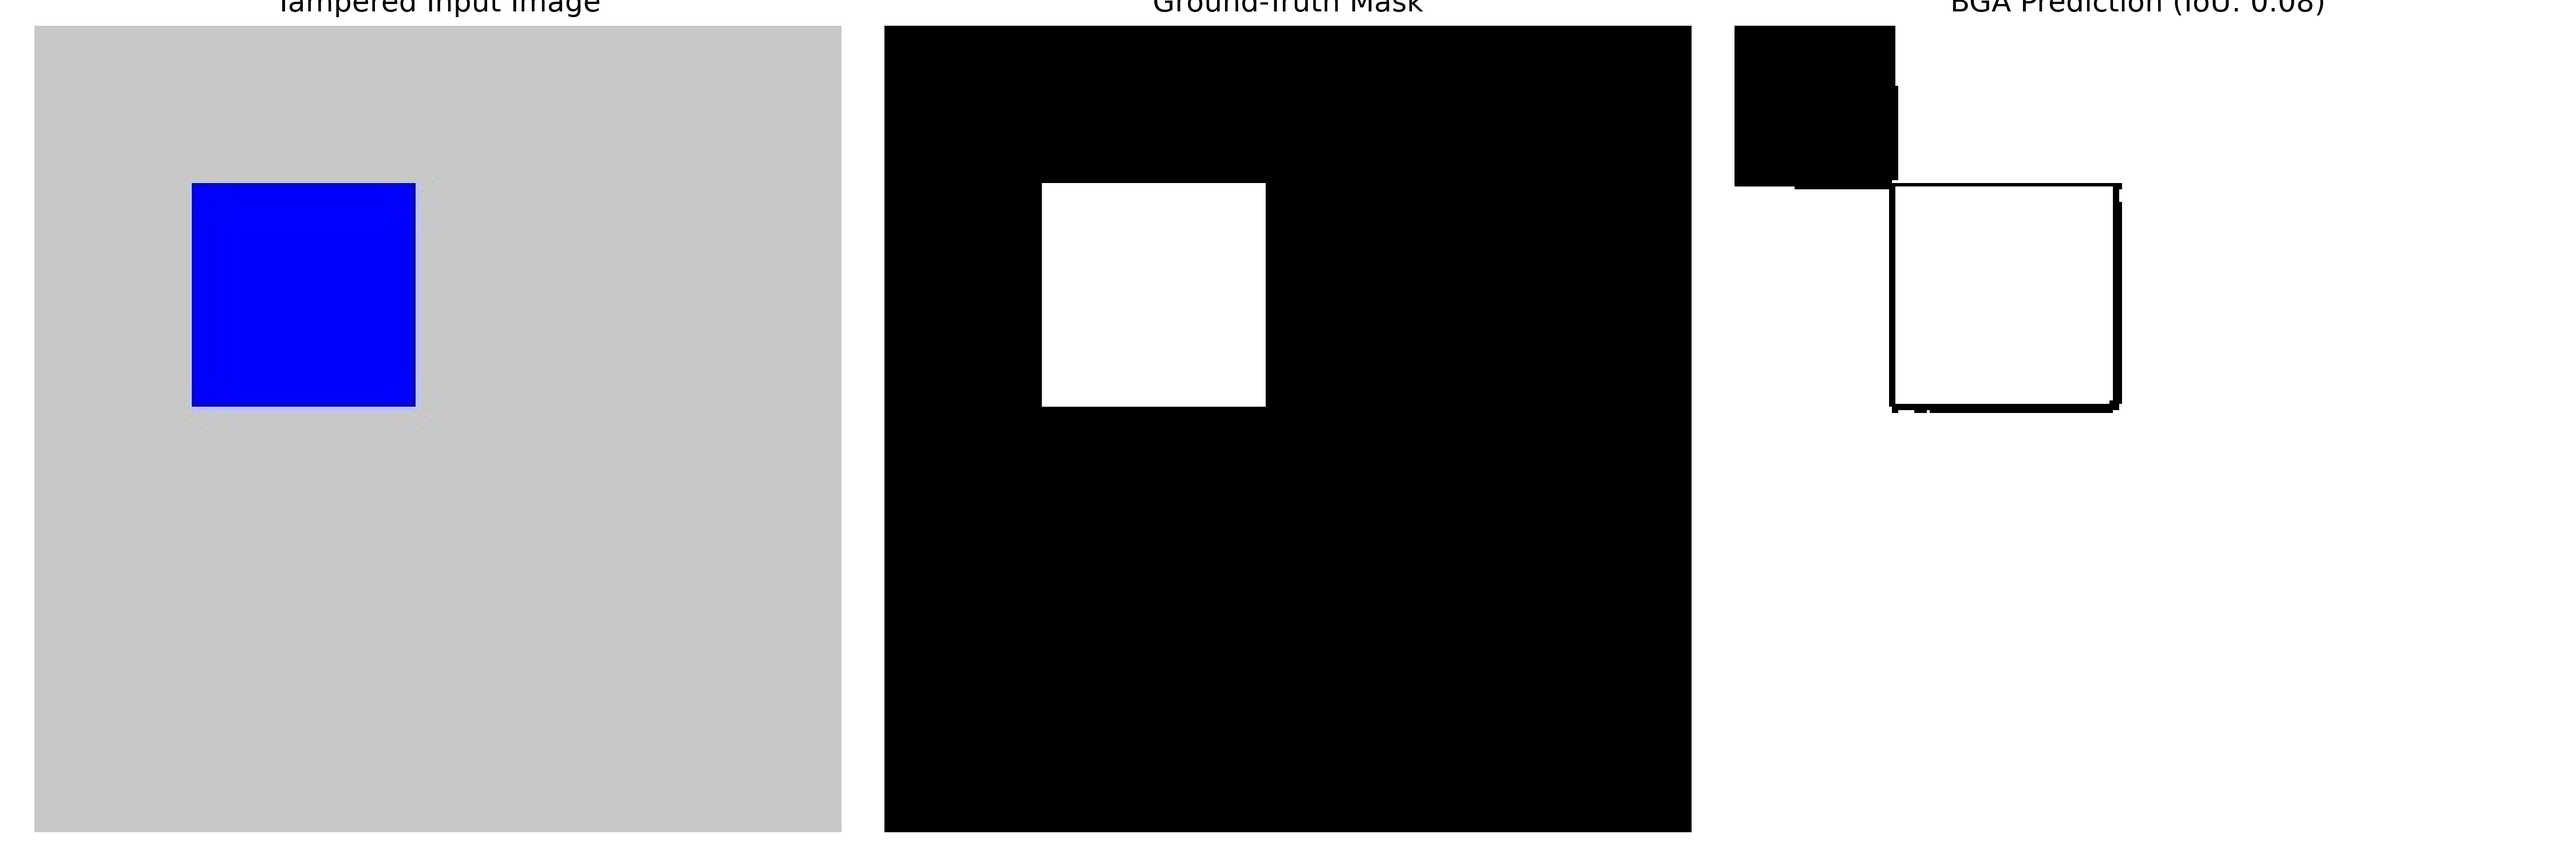
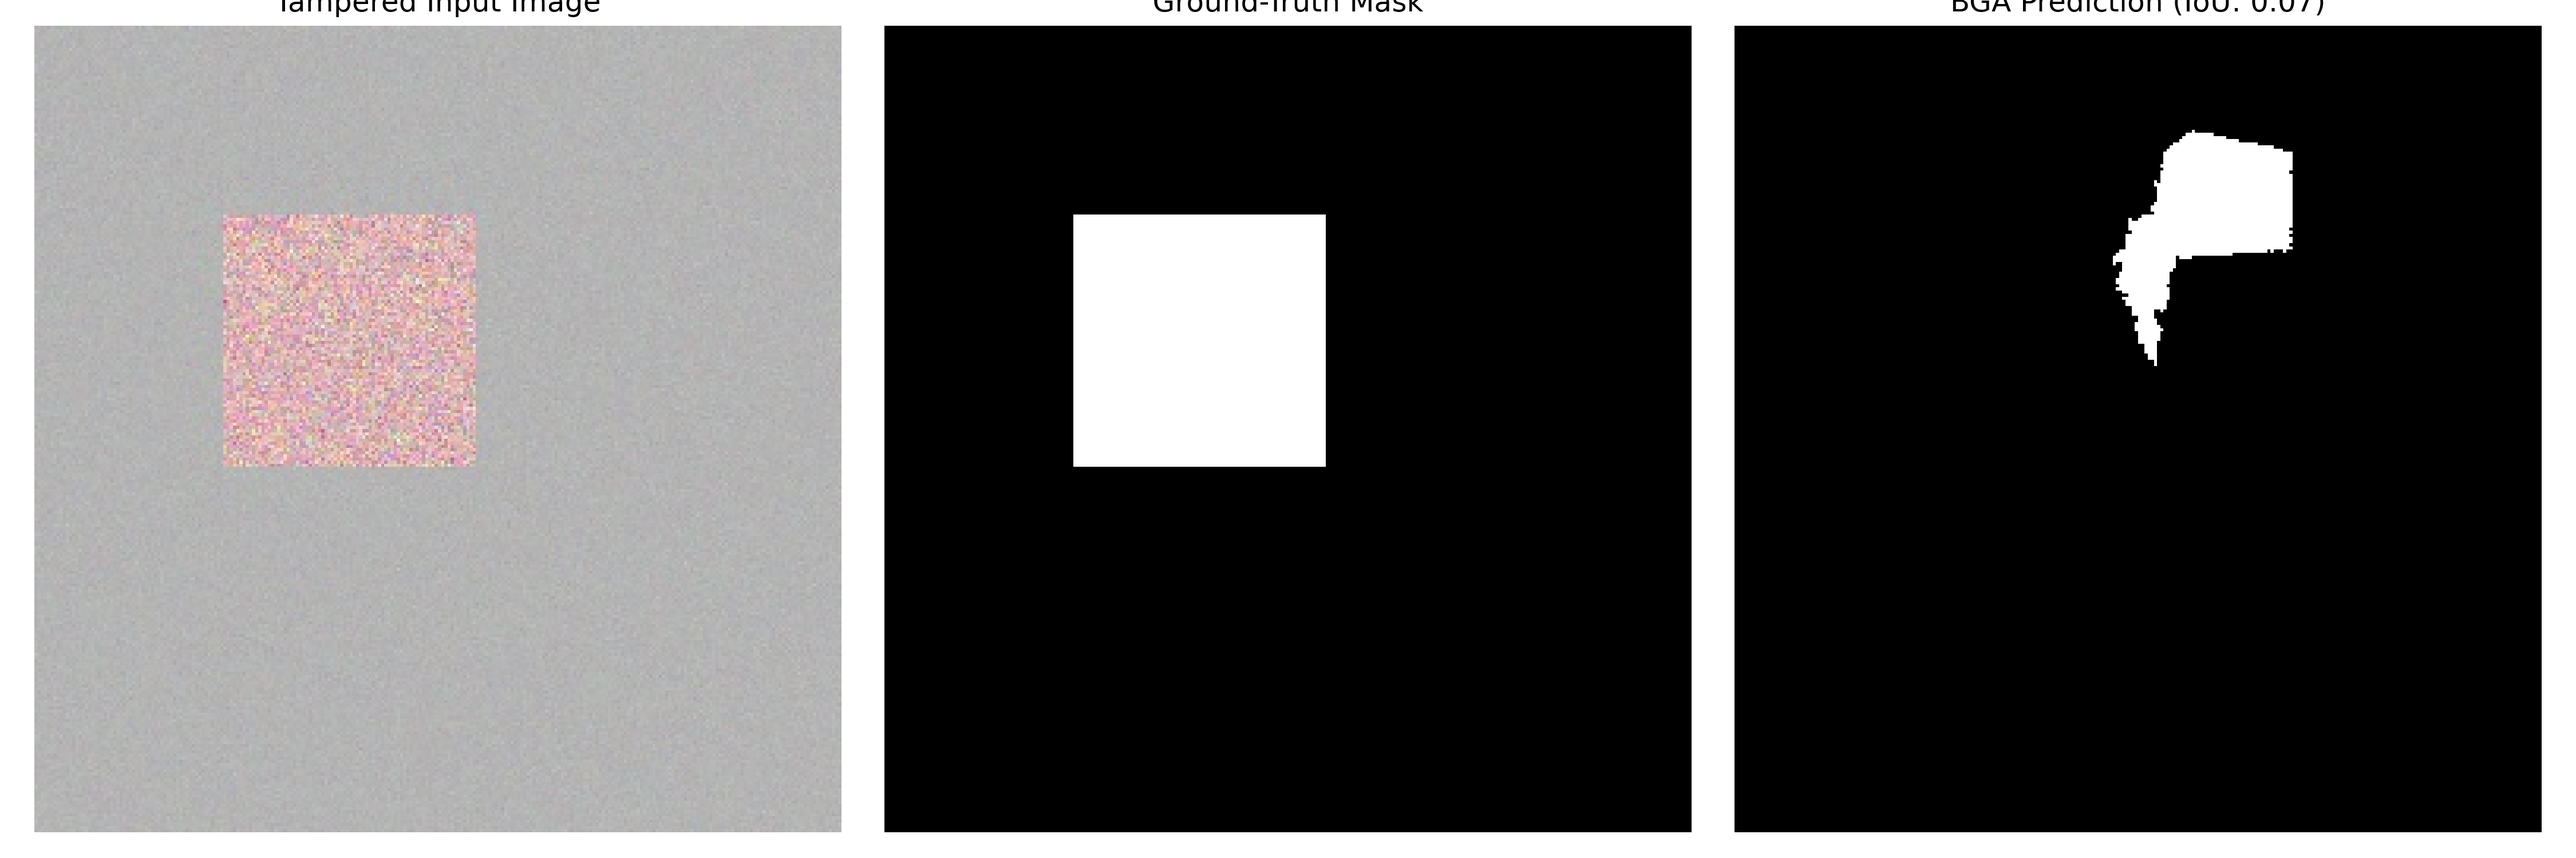
updating optimizer and main & Creating plot results for visualization of the results

diff --git a/src/optimizers.py b/src/optimizers.py
@@ -2,41 +2,41 @@ import random
 import numpy as np
 from deap import base, creator, tools, algorithms
 
-def evaluate_fitness(individual, forensic_scores, semantic_scores, segments, alpha=1.0, beta=1.0, gamma=0.5, lambda_reg=0.2):
+def evaluate_fitness(individual, forensic_scores, semantic_scores, segments, alpha=1.0, beta=1.0, lambda_reg=1.5):
     """
-    Joint objective function balancing forensic scores, semantic scores,
-    spatial coherence, and parsimony penalty.
+    Clean, balanced objective function:
+    Maximizes forensic & semantic feature strength while strictly penalizing over-selection.
     """
     selected_indices = [i for i, val in enumerate(individual) if val == 1]
     N = len(individual)
     
     if len(selected_indices) == 0:
-        return (-10.0,) # Fixed: flat tuple of numbers for DEAP fitness
+        return (-10.0,) # Heavy penalty for empty selection
 
-    # 1. Forensic alignment score
-    f_sum = sum(forensic_scores.get(rid, 0.0) for rid in selected_indices)
+    # 1. Mean Forensic Score of selected regions
+    f_vals = [forensic_scores.get(rid, 0.0) for rid in selected_indices]
+    f_mean = sum(f_vals) / len(f_vals)
     
-    # 2. Semantic alignment score
-    s_sum = sum(semantic_scores.get(rid, 0.0) for rid in selected_indices)
+    # 2. Mean Semantic Score of selected regions
+    s_vals = [semantic_scores.get(rid, 0.0) for rid in selected_indices]
+    s_mean = sum(s_vals) / len(s_vals)
     
-    # 3. Spatial coherence (simplified adjacency check)
-    coherence = 0.0
-    for i in range(len(selected_indices)):
-        for j in range(i + 1, len(selected_indices)):
-            coherence += 1.0
-            
-    # 4. Parsimony penalty (penalize selecting too many regions)
-    parsimony = len(selected_indices) / float(N)
+    # 3. Parsimony ratio: fraction of the image selected (0.0 to 1.0)
+    parsimony_ratio = len(selected_indices) / float(N)
     
-    # Joint objective calculation
-    fitness = (alpha * f_sum) + (beta * s_sum) + (gamma * coherence / (len(selected_indices) + 1)) - (lambda_reg * parsimony)
+    # Joint objective: reward signal quality, heavily penalize selecting too much of the image
+    fitness = (alpha * f_mean) + (beta * s_mean) - (lambda_reg * parsimony_ratio)
     
     return (fitness,)
 
-def run_binary_genetic_algorithm(forensic_scores, semantic_scores, segments, n_regions=21, n_gens=20, pop_size=50):
+def run_binary_genetic_algorithm(forensic_scores, semantic_scores, segments, n_regions=21, n_gens=30, pop_size=80, lambda_reg=1.5, random_seed=42):
     """
-    Sets up and runs the DEAP Binary Genetic Algorithm.
+    Sets up and runs the DEAP Binary Genetic Algorithm with reproducibility seed.
     """
+    if random_seed is not None:
+        random.seed(random_seed)
+        np.random.seed(random_seed)
+
     if "FitnessMax" in creator.__dict__:
         del creator.FitnessMax
     if "Individual" in creator.__dict__:
@@ -50,14 +50,19 @@ def run_binary_genetic_algorithm(forensic_scores, semantic_scores, segments, n_r
     toolbox.register("individual", tools.initRepeat, creator.Individual, toolbox.attr_bool, n=n_regions)
     toolbox.register("population", tools.initRepeat, list, toolbox.individual, n=pop_size)
 
-    toolbox.register("evaluate", evaluate_fitness, forensic_scores=forensic_scores, semantic_scores=semantic_scores, segments=segments)
+    toolbox.register("evaluate", evaluate_fitness, 
+                     forensic_scores=forensic_scores, 
+                     semantic_scores=semantic_scores, 
+                     segments=segments, 
+                     lambda_reg=lambda_reg)
+                     
     toolbox.register("mate", tools.cxTwoPoint)
     toolbox.register("mutate", tools.mutFlipBit, indpb=0.05)
     toolbox.register("select", tools.selTournament, tournsize=3)
 
     pop = toolbox.population(n=pop_size)
     
-    print(f"[Info] Running BGA optimization for {n_gens} generations...")
+    print(f"[Info] Running BGA optimization (lambda_reg={lambda_reg}, seed={random_seed}) for {n_gens} generations...")
     hof = tools.HallOfFame(1)
     stats = tools.Statistics(lambda ind: ind.fitness.values)
     stats.register("max", np.max)
@@ -79,9 +84,9 @@ if __name__ == "__main__":
     image, _ = load_tgif2_sample(img_path, mask_path)
     
     if image is not None:
-        segments, region_ids = extract_superpixel_candidates(image, n_segments=12)
+        segments, region_ids = extract_superpixel_candidates(image, n_segments=50)
         f_scores, s_scores = compute_dual_signal_features(image, segments, region_ids)
         
         print("\nTesting Optimizer Execution...")
-        best_mask = run_binary_genetic_algorithm(f_scores, s_scores, segments, n_regions=len(region_ids))
+        best_mask = run_binary_genetic_algorithm(f_scores, s_scores, segments, n_regions=len(region_ids), lambda_reg=1.5, random_seed=42)
         print(f"Best solution vector (sample): {best_mask[:10]}...")

diff --git a/src/main.py b/src/main.py
@@ -1,4 +1,5 @@
 import os
+import csv
 import matplotlib.pyplot as plt
 from load_data import load_tgif2_sample
 from region_proposals import extract_superpixel_candidates
@@ -6,9 +7,9 @@ from feature_extractor import compute_dual_signal_features
 from optimizers import run_binary_genetic_algorithm
 from evaluate import reconstruct_prediction_mask, compute_metrics
 
-def run_pipeline(image_path, mask_path):
+def run_pipeline(image_path, mask_path, lambda_val=1.5):
     print("=" * 50)
-    print("Starting Metaheuristic Image Forensics Pipeline...")
+    print(f"Starting Metaheuristic Pipeline (lambda_reg={lambda_val})...")
     print("=" * 50)
     
     # 1. Load Data
@@ -17,15 +18,21 @@ def run_pipeline(image_path, mask_path):
         return
         
     # 2. Extract Candidate Regions (SLIC)
-    segments, region_ids = extract_superpixel_candidates(image, n_segments=25, compactness=10)
+    segments, region_ids = extract_superpixel_candidates(image, n_segments=50, compactness=10)
     
     # 3. Dual-Signal Feature Extraction
     f_scores, s_scores = compute_dual_signal_features(image, segments, region_ids)
     
-    # 4. Binary Genetic Algorithm Optimization (higher lambda_reg to penalize over-selection)
-    # Filter region IDs to match feature keys
+    # 4. Binary Genetic Algorithm Optimization
     valid_region_ids = [rid for rid in region_ids if rid in f_scores]
-    best_ind = run_binary_genetic_algorithm(f_scores, s_scores, segments, n_regions=len(valid_region_ids), n_gens=25, pop_size=60)
+    best_ind = run_binary_genetic_algorithm(
+        f_scores, s_scores, segments, 
+        n_regions=len(valid_region_ids), 
+        n_gens=30, 
+        pop_size=80, 
+        lambda_reg=lambda_val,
+        random_seed=42  # Fixed seed for reproducible experiment results
+    )
     
     # 5. Evaluation
     pred_mask = reconstruct_prediction_mask(segments, best_ind, valid_region_ids)
@@ -37,7 +44,19 @@ def run_pipeline(image_path, mask_path):
     print(f"  - Precision: {prec:.4f}")
     print(f"  - Recall:    {rec:.4f}")
     
-    # 6. Visualization
+    # 6. Log Metrics to CSV
+    os.makedirs("outputs", exist_ok=True)
+    csv_path = "outputs/experiment_log.csv"
+    file_exists = os.path.exists(csv_path)
+    
+    with open(csv_path, mode="a", newline="") as f:
+        writer = csv.writer(f)
+        if not file_exists:
+            writer.writerow(["Lambda", "IoU", "F1", "Precision", "Recall"])
+        writer.writerow([lambda_val, f"{iou:.4f}", f"{f1:.4f}", f"{prec:.4f}", f"{rec:.4f}"])
+    print(f"[Success] Logged results to {csv_path}")
+    
+    # 7. Visualization
     fig, axes = plt.subplots(1, 3, figsize=(15, 5))
     axes[0].imshow(image)
     axes[0].set_title("Tampered Input Image")
@@ -52,16 +71,14 @@ def run_pipeline(image_path, mask_path):
     axes[2].axis("off")
     
     plt.tight_layout()
-    
-    os.makedirs("outputs", exist_ok=True)
-    out_path = "outputs/prediction_result.png"
+    out_path = f"outputs/prediction_lambda_{lambda_val}.png"
     plt.savefig(out_path, dpi=300)
-    print(f"\n[Success] Saved visualization comparison plot to {out_path}")
-    
-    # Uncomment below if you want the window to pop up immediately:
-    # plt.show()
+    print(f"[Success] Saved visualization to {out_path}\n")
 
 if __name__ == "__main__":
     img_p = "data/tgif2_sample/images/sample_01.jpg"
     mask_p = "data/tgif2_sample/masks/sample_01_mask.png"
-    run_pipeline(img_p, mask_p)
+    
+    # Run a parameter sweep across multiple lambda values
+    for l_val in [0.5, 1.0, 1.5, 2.0]:
+        run_pipeline(img_p, mask_p, lambda_val=l_val)

diff --git a/src/load_data.py b/src/load_data.py
@@ -25,18 +25,36 @@ def load_tgif2_sample(image_path, mask_path):
 
 def generate_dummy_sample():
     """
-    Generates a fake image and mask so you can test the loader right now.
+    Generates a realistic dummy image with textured noise in the tampered region
+    so forensic and semantic feature extractors can detect it.
     """
     os.makedirs("data/tgif2_sample/images", exist_ok=True)
     os.makedirs("data/tgif2_sample/masks", exist_ok=True)
 
-    # Create a dummy 256x256 RGB image (e.g., blue background with a red square)
-    dummy_image = np.full((256, 256, 3), (200, 200, 200), dtype=np.uint8)
-    cv2.rectangle(dummy_image, (50, 50), (120, 120), (0, 0, 255), -1) # "tampered" region
+    # 1. Create a base smooth background (e.g., subtle gradient or smooth gray)
+    dummy_image = np.full((256, 256, 3), 180, dtype=np.uint8)
+    
+    # Add mild background noise so it's not perfectly flat
+    noise = np.random.normal(0, 5, (256, 256, 3)).astype(np.int32)
+    dummy_image = np.clip(dummy_image.astype(np.int32) + noise, 0, 255).astype(np.uint8)
 
-    # Create a matching binary mask (white square where the edit is, black elsewhere)
+    # 2. Define the tampered region coordinates
+    x1, y1, x2, y2 = 60, 60, 140, 140
+
+    # 3. Create a matching binary mask
     dummy_mask = np.zeros((256, 256), dtype=np.uint8)
-    cv2.rectangle(dummy_mask, (50, 50), (120, 120), 255, -1)
+    dummy_mask[y1:y2, x1:x2] = 255
+
+    # 4. Inject heavy high-frequency noise and color distortion into the tampered region
+    # (Simulating AI inpainting artifacts / tampering traces)
+    tampered_patch = dummy_image[y1:y2, x1:x2].astype(np.float32)
+    tampered_patch[:, :, 0] = np.clip(tampered_patch[:, :, 0] + 40, 0, 255) # boost red channel
+    
+    # Add high-frequency Gaussian noise inside the tampered patch
+    hf_noise = np.random.normal(0, 25, tampered_patch.shape)
+    tampered_patch = np.clip(tampered_patch + hf_noise, 0, 255).astype(np.uint8)
+    
+    dummy_image[y1:y2, x1:x2] = tampered_patch
 
     # Save them
     img_path = "data/tgif2_sample/images/sample_01.jpg"
@@ -44,14 +62,13 @@ def generate_dummy_sample():
 
     cv2.imwrite(img_path, cv2.cvtColor(dummy_image, cv2.COLOR_RGB2BGR))
     cv2.imwrite(mask_path, dummy_mask)
-    print(f"[Info] Generated dummy test files at {img_path} and {mask_path}")
+    print(f"[Info] Generated textured dummy test files at {img_path} and {mask_path}")
 
 if __name__ == "__main__":
-    print("Step 2 Test: Generating dummy sample...")
+    print("Regenerating textured dummy sample...")
     generate_dummy_sample()
 
     sample_img_path = "data/tgif2_sample/images/sample_01.jpg"
     sample_mask_path = "data/tgif2_sample/masks/sample_01_mask.png"
     
-    print("\nTesting TGIF2 loader utility...")
     load_tgif2_sample(sample_img_path, sample_mask_path)

diff --git a/src/plot_results.py b/src/plot_results.py
@@ -1,0 +1,32 @@
+import pandas as pd
+import matplotlib.pyplot as plt
+import os
+
+def plot_experiment_curves():
+    csv_path = "outputs/experiment_log.csv"
+    if not os.path.exists(csv_path):
+        print(f"[Error] Log file not found at {csv_path}. Run main.py first!")
+        return
+        
+    df = pd.read_csv(csv_path)
+    
+    plt.figure(figsize=(8, 5))
+    plt.plot(df["Lambda"], df["IoU"], marker='o', label="IoU Score", linewidth=2)
+    plt.plot(df["Lambda"], df["Precision"], marker='s', label="Precision", linewidth=2)
+    plt.plot(df["Lambda"], df["Recall"], marker='^', label="Recall", linewidth=2)
+    
+    plt.title("Impact of Parsimony Penalty ($\lambda$) on BGA Forensics", fontsize=12)
+    plt.xlabel("Parsimony Penalty ($\lambda$)", fontsize=10)
+    plt.ylabel("Metric Score", fontsize=10)
+    plt.grid(True, linestyle="--", alpha=0.6)
+    plt.legend()
+    plt.ylim(0, 1.05)
+    
+    plt.tight_layout()
+    plot_out = "outputs/lambda_performance_curve.png"
+    plt.savefig(plot_out, dpi=300)
+    print(f"[Success] Saved performance curve plot to {plot_out}")
+    plt.show()
+
+if __name__ == "__main__":
+    plot_experiment_curves()
